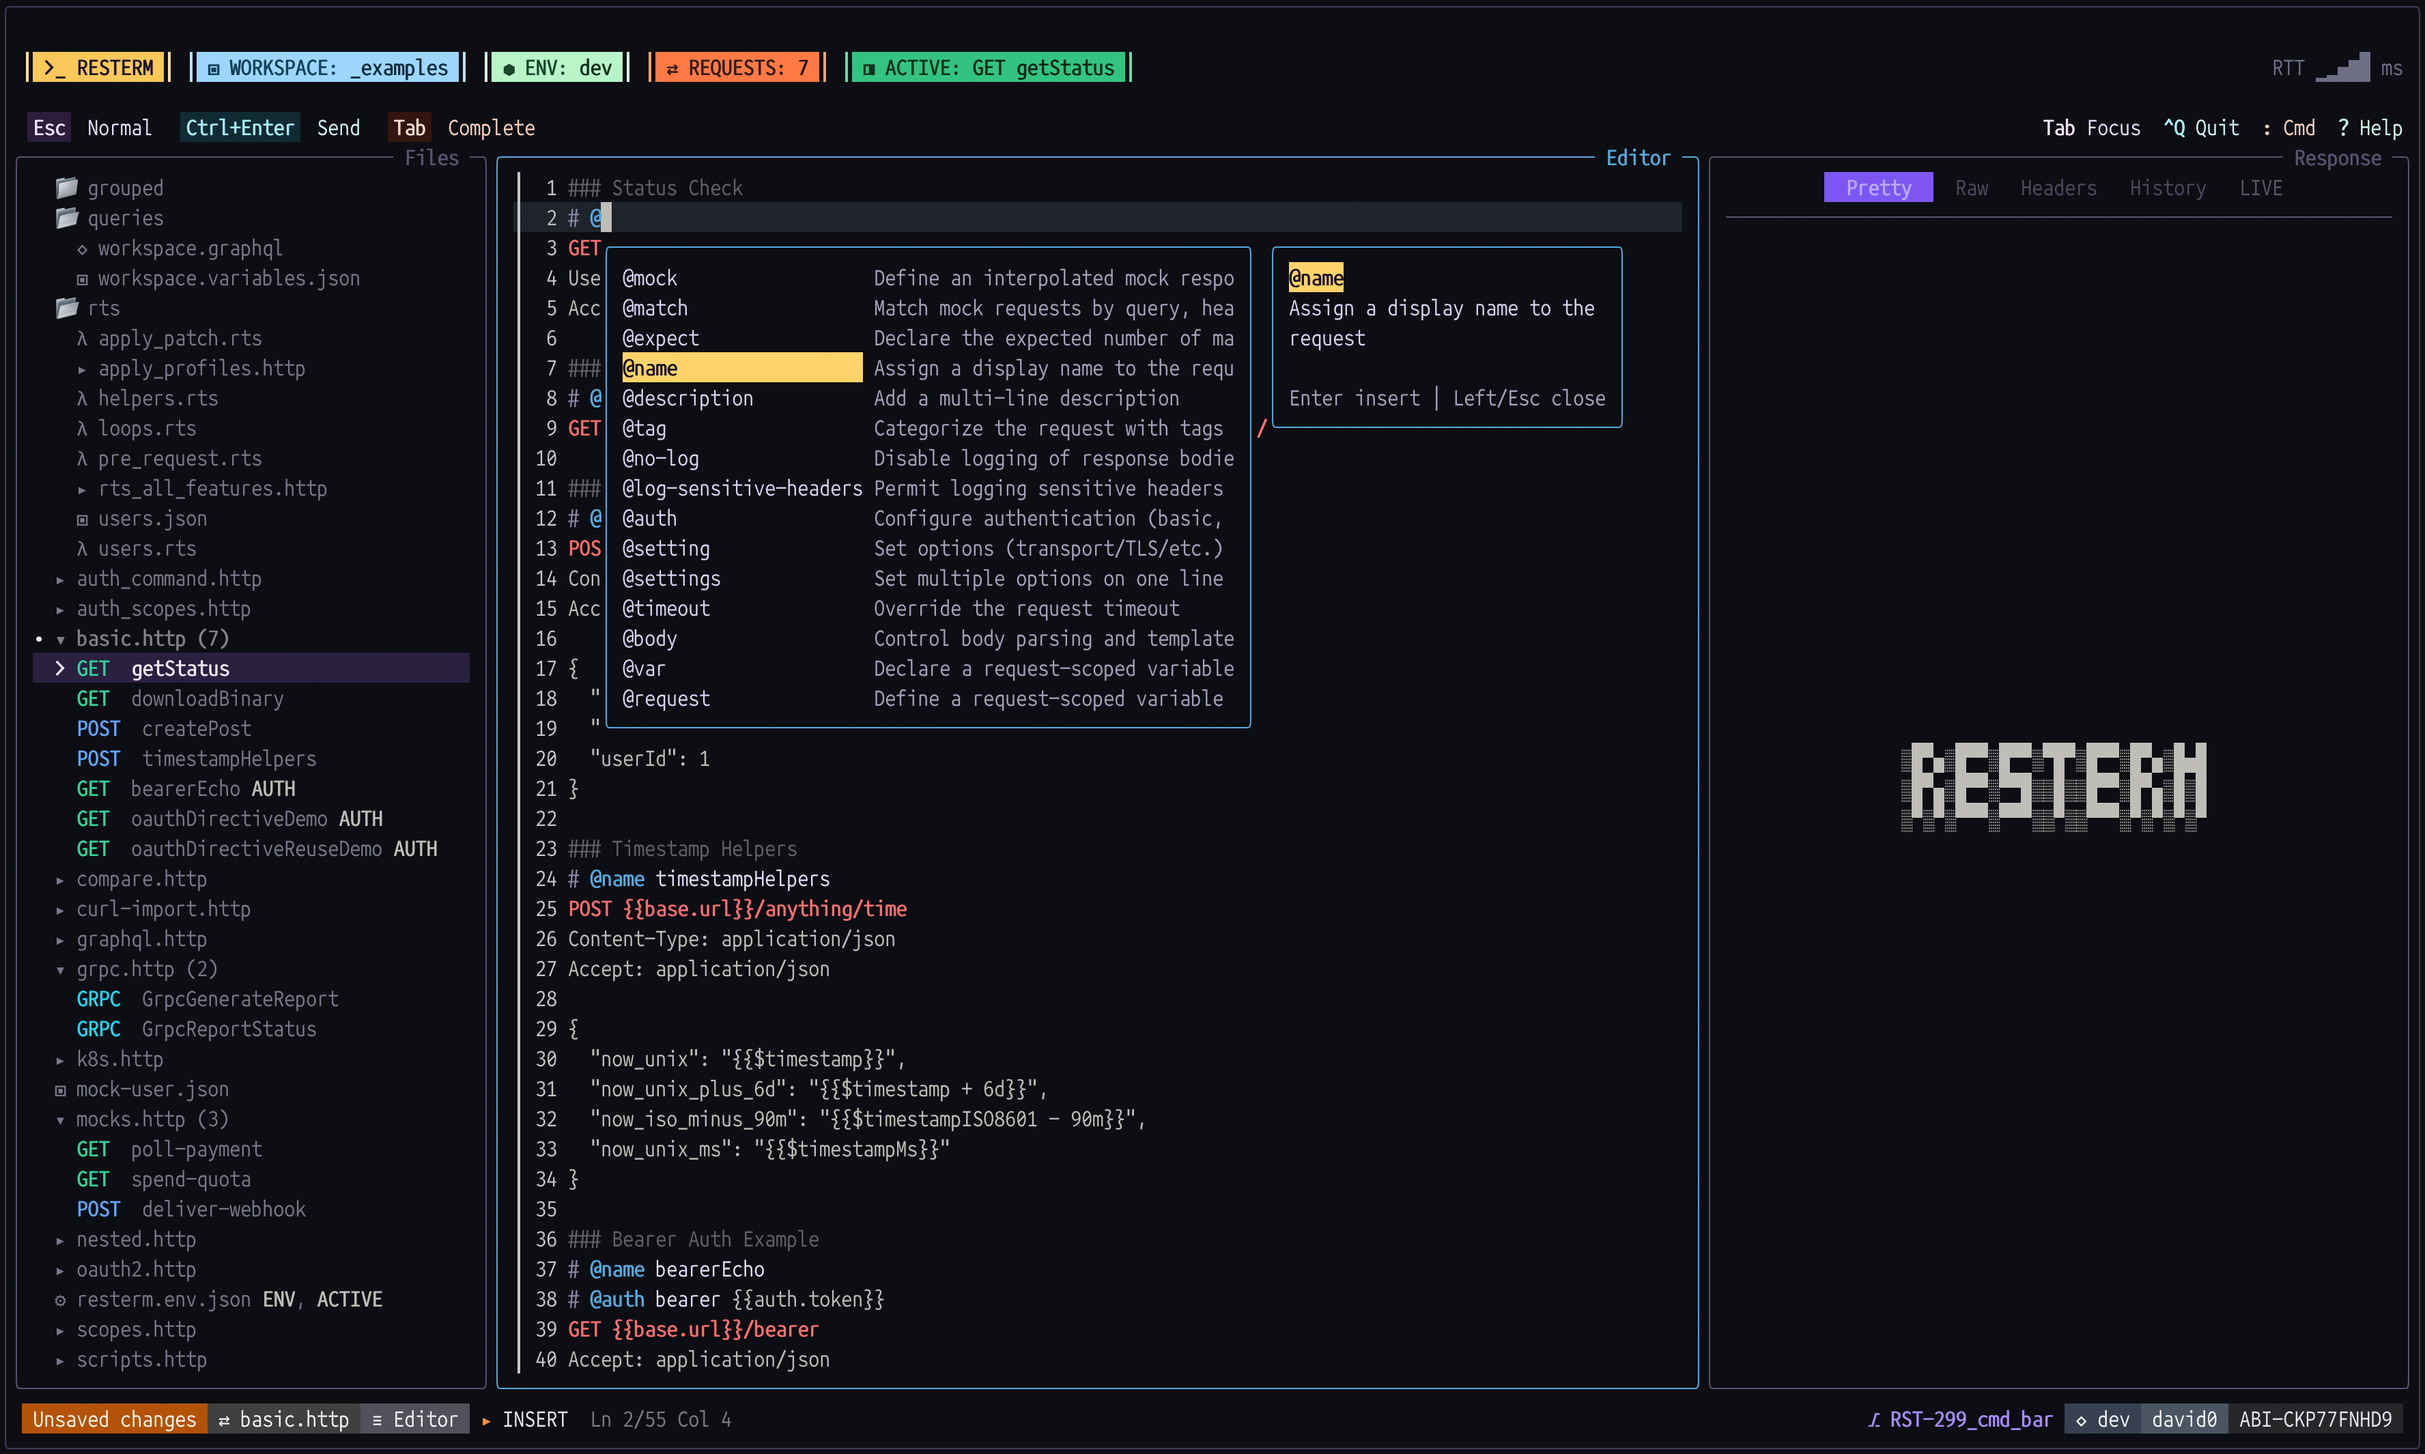
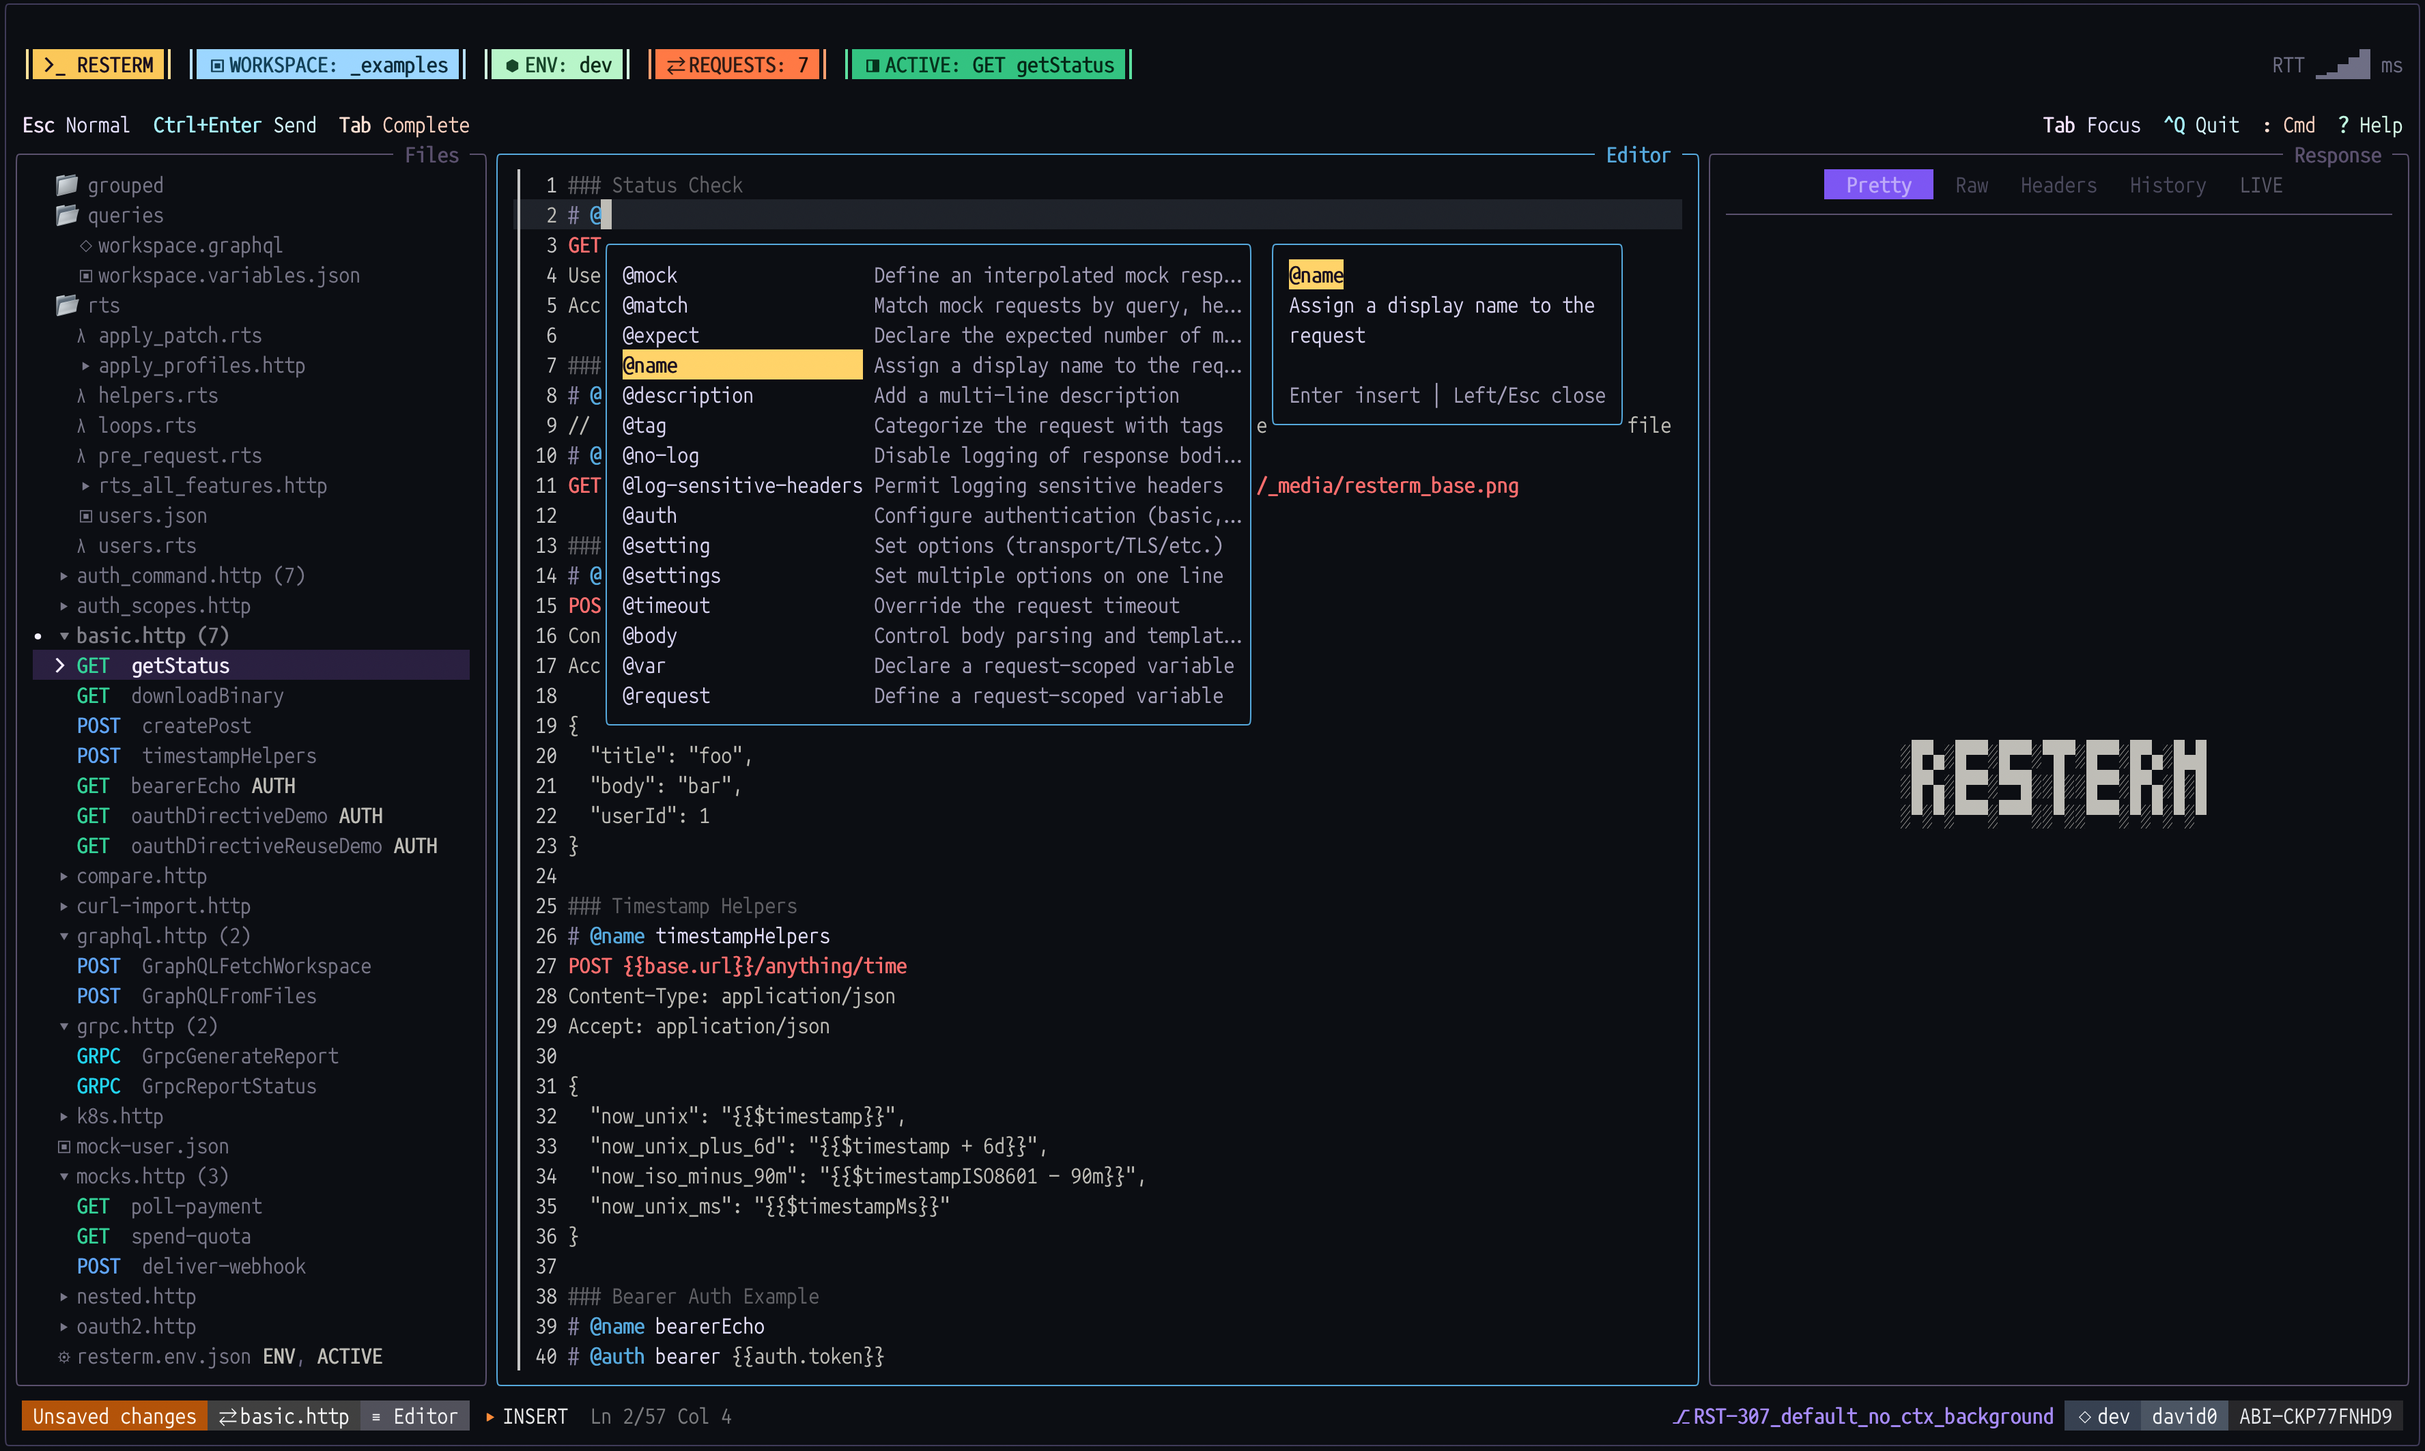
RST-307: remove background from default ctx help keys (#351)
* RST-307: remove background from default ctx help keys
* chore: resterm_base

diff --git a/internal/ui/model_render_commandbar_test.go b/internal/ui/model_render_commandbar_test.go
@@ -135,11 +135,6 @@ func TestRenderCommandBarDoesNotEchoResponseSearch(t *testing.T) {
 	}
 }
 
-// keycap is the stripped text of a context hint chip.
-func keycap(key, label string) string {
-	return "▐" + key + "▌ " + label
-}
-
 func TestRenderCommandButtonRendersFlush(t *testing.T) {
 	out := ansi.Strip(renderCommandButton("Tab", "Focus", theme.CommandSegmentStyle{}, lipgloss.NoColor{}))
 
@@ -175,9 +170,12 @@ func TestRenderCommandBarKeepsStableAnchors(t *testing.T) {
 	model.focus = focusEditor
 
 	out := ansi.Strip(model.renderCommandBar())
+	if strings.ContainsAny(out, "▐▌") {
+		t.Fatalf("expected default command hints to render flat, got %q", out)
+	}
 	// ^N New belongs to the files context, so it must not leak into the editor bar.
-	if strings.Contains(out, keycap("^N", "New")) {
-		t.Fatalf("did not expect files hint %q, got %q", keycap("^N", "New"), out)
+	if strings.Contains(out, "^N New") {
+		t.Fatalf("did not expect files hint %q, got %q", "^N New", out)
 	}
 	prev := -1
 	for _, want := range []string{
@@ -195,13 +193,13 @@ func TestRenderCommandBarKeepsStableAnchors(t *testing.T) {
 	if !strings.HasSuffix(strings.TrimRight(out, " "), "? Help") {
 		t.Fatalf("expected anchors pinned to the right edge, got %q", out)
 	}
-	insert := strings.Index(out, keycap("i", "Insert"))
+	insert := strings.Index(out, "i Insert")
 	if insert < 0 || insert > strings.Index(out, "Tab Focus") {
 		t.Fatalf("expected context hints before the anchors, got %q", out)
 	}
 }
 
-func TestRenderCommandBarKeycapBackgrounds(t *testing.T) {
+func TestRenderCommandBarCustomBackgroundsEnableKeycaps(t *testing.T) {
 	prev := lipgloss.ColorProfile()
 	lipgloss.SetColorProfile(termenv.TrueColor)
 	defer lipgloss.SetColorProfile(prev)
@@ -209,18 +207,17 @@ func TestRenderCommandBarKeycapBackgrounds(t *testing.T) {
 	model := New(Config{})
 	model.width = 220
 	model.focus = focusEditor
+	model.theme.CommandSegments = []theme.CommandSegmentStyle{
+		{Background: lipgloss.Color("#112233")},
+		{Background: lipgloss.Color("#223344")},
+		{Background: lipgloss.Color("#334455")},
+		{Background: lipgloss.Color("#445566")},
+		{Background: lipgloss.Color("#556677")},
+	}
 
 	bar := model.renderCommandBar()
 	plain := ansi.Strip(bar)
 	backgrounds := renderedCellBackgrounds(bar)
-	if len(backgrounds) != lipgloss.Width(plain) {
-		t.Fatalf(
-			"expected %d rendered cell backgrounds, got %d",
-			lipgloss.Width(plain),
-			len(backgrounds),
-		)
-	}
-
 	for idx, key := range []string{"i", "Enter", "Shift+K", "/", "^S"} {
 		assertKeycapBackground(t, plain, backgrounds, key, model.theme.CommandSegment(idx).Background)
 	}
@@ -232,9 +229,8 @@ func TestRenderCommandBarKeycapBackgrounds(t *testing.T) {
 	}
 }
 
-// Themes like daybreak set a command_bar background. Every cell inside the
-// gutters must then carry either that background or a chip background, or the
-// bar shows seams.
+// A themed command_bar background must cover every cell inside the gutters or
+// the bar shows seams.
 func TestRenderCommandBarKeepsThemedBackground(t *testing.T) {
 	prev := lipgloss.ColorProfile()
 	lipgloss.SetColorProfile(termenv.TrueColor)
@@ -250,12 +246,9 @@ func TestRenderCommandBarKeepsThemedBackground(t *testing.T) {
 	plain := []rune(ansi.Strip(bar))
 	backgrounds := renderedCellBackgrounds(bar)
 
-	allowed := [][]int{sgrTrueColorBackground(t, barBg)}
-	for _, seg := range model.theme.CommandSegments {
-		allowed = append(allowed, sgrTrueColorBackground(t, seg.Background))
-	}
+	want := sgrTrueColorBackground(t, barBg)
 	for idx := 1; idx < len(backgrounds)-1; idx++ {
-		if !slices.ContainsFunc(allowed, func(bg []int) bool { return slices.Equal(backgrounds[idx], bg) }) {
+		if !slices.Equal(backgrounds[idx], want) {
 			t.Fatalf("cell %d %q lost the bar background: got %v", idx, string(plain[idx]), backgrounds[idx])
 		}
 	}
@@ -278,7 +271,7 @@ func TestRenderCommandBarKeepsDividerBackground(t *testing.T) {
 	plain := ansi.Strip(bar)
 	backgrounds := renderedCellBackgrounds(bar)
 
-	first := keycap("i", "Insert")
+	first := "i Insert"
 	before, _, ok := strings.Cut(plain, first)
 	if !ok {
 		t.Fatalf("expected hint %q in %q", first, plain)
@@ -374,20 +367,14 @@ func TestRenderCommandBarUsesFocusedContext(t *testing.T) {
 			setup: func(m *Model) {
 				m.focus = focusFile
 			},
-			want: []string{
-				keycap("Enter", "Open"), keycap("Space", "Expand"), keycap("/", "Filter"),
-				keycap("^N", "New"), keycap("^O", "Open"), keycap("^T", "Temp"),
-			},
+			want: []string{"Enter Open", "Space Expand", "/ Filter", "^N New", "^O Open", "^T Temp"},
 		},
 		{
 			name: "requests",
 			setup: func(m *Model) {
 				m.focus = focusRequests
 			},
-			want: []string{
-				keycap("Enter", "Run"), keycap("m", "Method"), keycap("t", "Tags"),
-				keycap("l", "Jump"), keycap("g ,", "Details"),
-			},
+			want: []string{"Enter Run", "m Method", "t Tags", "l Jump", "g , Details"},
 		},
 		{
 			name: "editor normal",
@@ -395,10 +382,7 @@ func TestRenderCommandBarUsesFocusedContext(t *testing.T) {
 				m.focus = focusEditor
 				m.editorInsertMode = false
 			},
-			want: []string{
-				keycap("i", "Insert"), keycap("Enter", "Send"), keycap("Shift+K", "Docs"),
-				keycap("/", "Search"), keycap("^S", "Save"),
-			},
+			want:   []string{"i Insert", "Enter Send", "Shift+K Docs", "/ Search", "^S Save"},
 			absent: "Ctrl+Enter",
 		},
 		{
@@ -407,12 +391,8 @@ func TestRenderCommandBarUsesFocusedContext(t *testing.T) {
 				m.focus = focusEditor
 				m.editorInsertMode = true
 			},
-			want: []string{
-				keycap("Esc", "Normal"),
-				keycap("Ctrl+Enter", "Send"),
-				keycap("Tab", "Complete"),
-			},
-			absent: keycap("Shift+K", "Docs"),
+			want:   []string{"Esc Normal", "Ctrl+Enter Send", "Tab Complete"},
+			absent: "Shift+K Docs",
 		},
 		{
 			name: "response pretty",
@@ -420,7 +400,7 @@ func TestRenderCommandBarUsesFocusedContext(t *testing.T) {
 				m.focus = focusResponse
 				m.responsePanes[0].activeTab = responseTabPretty
 			},
-			want: []string{keycap("j/k", "Scroll"), keycap("g Shift+S", "Save")},
+			want: []string{"j/k Scroll", "g Shift+S Save"},
 		},
 		{
 			name: "response raw",
@@ -428,10 +408,7 @@ func TestRenderCommandBarUsesFocusedContext(t *testing.T) {
 				m.focus = focusResponse
 				m.responsePanes[0].activeTab = responseTabRaw
 			},
-			want: []string{
-				keycap("j/k", "Scroll"), keycap("g b", "View"),
-				keycap("g Shift+D", "Dump"), keycap("g Shift+S", "Save"),
-			},
+			want: []string{"j/k Scroll", "g b View", "g Shift+D Dump", "g Shift+S Save"},
 		},
 		{
 			name: "response history",
@@ -439,7 +416,7 @@ func TestRenderCommandBarUsesFocusedContext(t *testing.T) {
 				m.focus = focusResponse
 				m.responsePanes[0].activeTab = responseTabHistory
 			},
-			want: []string{keycap("c", "Scope"), keycap("s", "Sort"), keycap("Enter", "Load")},
+			want: []string{"c Scope", "s Sort", "Enter Load"},
 		},
 	}
 
@@ -492,7 +469,7 @@ func TestRenderCommandBarUsesCustomContextHelpBinding(t *testing.T) {
 	model.focus = focusEditor
 
 	out := ansi.Strip(model.renderCommandBar())
-	if !strings.Contains(out, keycap("Ctrl+K", "Docs")) {
+	if !strings.Contains(out, "Ctrl+K Docs") {
 		t.Fatalf("expected configured contextual-help binding, got %q", out)
 	}
 }

diff --git a/internal/theme/theme.go b/internal/theme/theme.go
@@ -269,31 +269,31 @@ func DefaultTheme() Theme {
 		},
 		CommandSegments: []CommandSegmentStyle{
 			{
-				Background: lipgloss.Color("#2C1E3A"),
+				Background: lipgloss.Color(""),
 				Border:     lipgloss.Color("#7D56F4"),
 				Key:        lipgloss.Color("#F6E3FF"),
 				Text:       lipgloss.Color("#E5E1FF"),
 			},
 			{
-				Background: lipgloss.Color("#102B33"),
+				Background: lipgloss.Color(""),
 				Border:     lipgloss.Color("#15AABF"),
 				Key:        lipgloss.Color("#A7F2FF"),
 				Text:       lipgloss.Color("#D6F7FF"),
 			},
 			{
-				Background: lipgloss.Color("#32160E"),
+				Background: lipgloss.Color(""),
 				Border:     lipgloss.Color("#FF7A45"),
 				Key:        lipgloss.Color("#FFE0D3"),
 				Text:       lipgloss.Color("#FFD4C2"),
 			},
 			{
-				Background: lipgloss.Color("#0F2F20"),
+				Background: lipgloss.Color(""),
 				Border:     lipgloss.Color("#33C481"),
 				Key:        lipgloss.Color("#C0F5DF"),
 				Text:       lipgloss.Color("#D6F9E8"),
 			},
 			{
-				Background: lipgloss.Color("#332408"),
+				Background: lipgloss.Color(""),
 				Border:     lipgloss.Color("#FFB61E"),
 				Key:        lipgloss.Color("#FFECC0"),
 				Text:       lipgloss.Color("#FFF3D8"),
@@ -503,7 +503,7 @@ func (t Theme) HeaderSegment(idx int) HeaderSegmentStyle {
 func (t Theme) CommandSegment(idx int) CommandSegmentStyle {
 	if len(t.CommandSegments) == 0 {
 		return CommandSegmentStyle{
-			Background: lipgloss.Color("#2C1E3A"),
+			Background: lipgloss.Color(""),
 			Border:     lipgloss.Color("#7D56F4"),
 			Key:        lipgloss.Color("#F6E3FF"),
 			Text:       lipgloss.Color("#E5E1FF"),

diff --git a/internal/theme/spec_test.go b/internal/theme/spec_test.go
@@ -60,8 +60,9 @@ func TestApplySpecOverridesColorsAndMetadata(t *testing.T) {
 			Foreground: strPtr("#eeeeee"),
 		}},
 		CommandSegments: []CommandSegmentSpec{{
-			Key:  strPtr("#abcdef"),
-			Text: strPtr("#fedcba"),
+			Background: strPtr("#222222"),
+			Key:        strPtr("#abcdef"),
+			Text:       strPtr("#fedcba"),
 		}},
 		StatusBar: &StatusBarSpec{
 			Base: strPtr("#010101"),
@@ -161,6 +162,12 @@ func TestApplySpecOverridesColorsAndMetadata(t *testing.T) {
 	}
 	if updated.CommandSegments[0].Key != "#abcdef" {
 		t.Errorf("expected command key color override, got %q", updated.CommandSegments[0].Key)
+	}
+	if updated.CommandSegments[0].Background != "#222222" {
+		t.Errorf(
+			"expected command background color override, got %q",
+			updated.CommandSegments[0].Background,
+		)
 	}
 	if got := updated.StatusBarPalette.Base; got != "#010101" {
 		t.Errorf("expected status bar base override, got %q", got)

diff --git a/docs/resterm.md b/docs/resterm.md
@@ -191,7 +191,7 @@ Resterm keeps concise documentation inside the binary, so the first layer of hel
 
 The command line suggests commands, topics, and `:mock` subcommands as you type. `Up` / `Down` (or `Ctrl+P` / `Ctrl+N`) selects a suggestion, `Tab` completes it without running, and `Enter` accepts and runs an explicit selection. If no row has been selected, `Enter` runs the text currently in the prompt.
 
-The bottom command bar always retains Focus, Commands, and Help entry points. The remaining hints adapt to the focused pane, editor mode, and response tab, with each contextual key rendered as a keycap chip on its segment background. Configured shortcuts are reflected in both the command bar and help overlay.
+The bottom command bar always retains Focus, Commands, and Help entry points. The remaining hints adapt to the focused pane, editor mode, and response tab. Contextual keys use the same flat presentation as the pinned shortcuts by default; themes can add keycap backgrounds through `command_segments`. Configured shortcuts are reflected in both the command bar and help overlay.
 
 ### Editor completions (IntelliSense)
 
@@ -2038,7 +2038,7 @@ background = "#404040"
 | `[status_bar]` | `base`, plus `[status_bar.info]`, `[status_bar.warn]`, `[status_bar.error]`, `[status_bar.success]`, `[status_bar.tests_pass]`, `[status_bar.tests_fail]`, `[status_bar.tests_error]`, `[status_bar.file]`, `[status_bar.focus]`, `[status_bar.mode]`, `[status_bar.editor]`, `[status_bar.mock]`, `[status_bar.zoom]`, `[status_bar.minimized]`, `[status_bar.version]`, `[status_bar.user]`, `[status_bar.host]` with `foreground` and `background` | Controls the segmented bottom status bar. Segment entries inherit the built in palette. The `tests_*` entries colour test result blocks separately from matching request status blocks. `[status_bar.editor]` colours the editor cursor position (`Ln/Col`), shown faint by default. Set it to override. `[status_bar.mock]` colours the mock server segment, which switches to the warn colours while a reload error is active. `base` fills otherwise empty status bar cells when set. Omit it to leave them uncoloured. |
 | `[editor_metadata]` | `comment_marker`, `directive_default`, `value`, `setting_key`, `setting_value`, `request_line`, `request_separator`, `[editor_metadata.directive_colors]` | Controls metadata highlighting inside the editor. |
 | `[[header_segments]]` | `background`, `foreground`, `border`, `accent` | Rotating header chips; add multiple tables for rotation. |
-| `[[command_segments]]` | `background`, `border`, `key`, `text` | Colour sets for command bar hints. Contextual keys render as keycap chips on `background`; set `background = "none"` to render that segment flat. Pinned hints use only `key` and `text`. `border` is accepted for compatibility. |
+| `[[command_segments]]` | `background`, `border`, `key`, `text` | Colour sets for command bar hints. Contextual keys render flat by default; set `background` to a colour to enable keycap chips, or to `none` to disable them explicitly. Pinned hints use only `key` and `text`. `border` is accepted for compatibility. |
 
 The segmented bottom bar uses `[status_bar]` for section backgrounds and text colours. Legacy `[styles.status_bar*]` entries remain accepted for older themes, but they do not control the segmented section palette.
 
